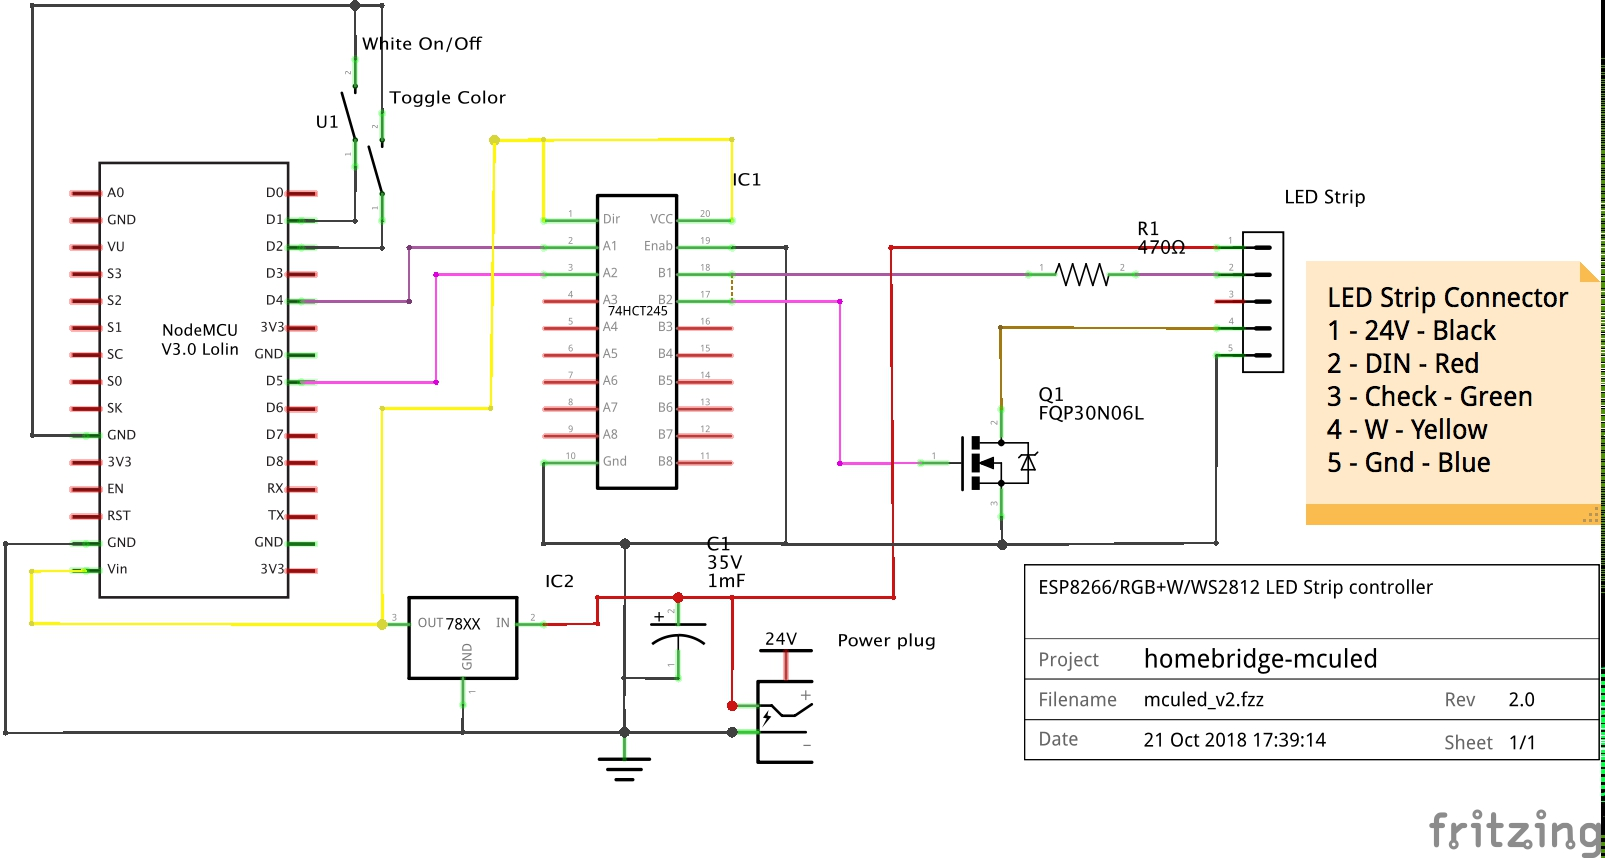
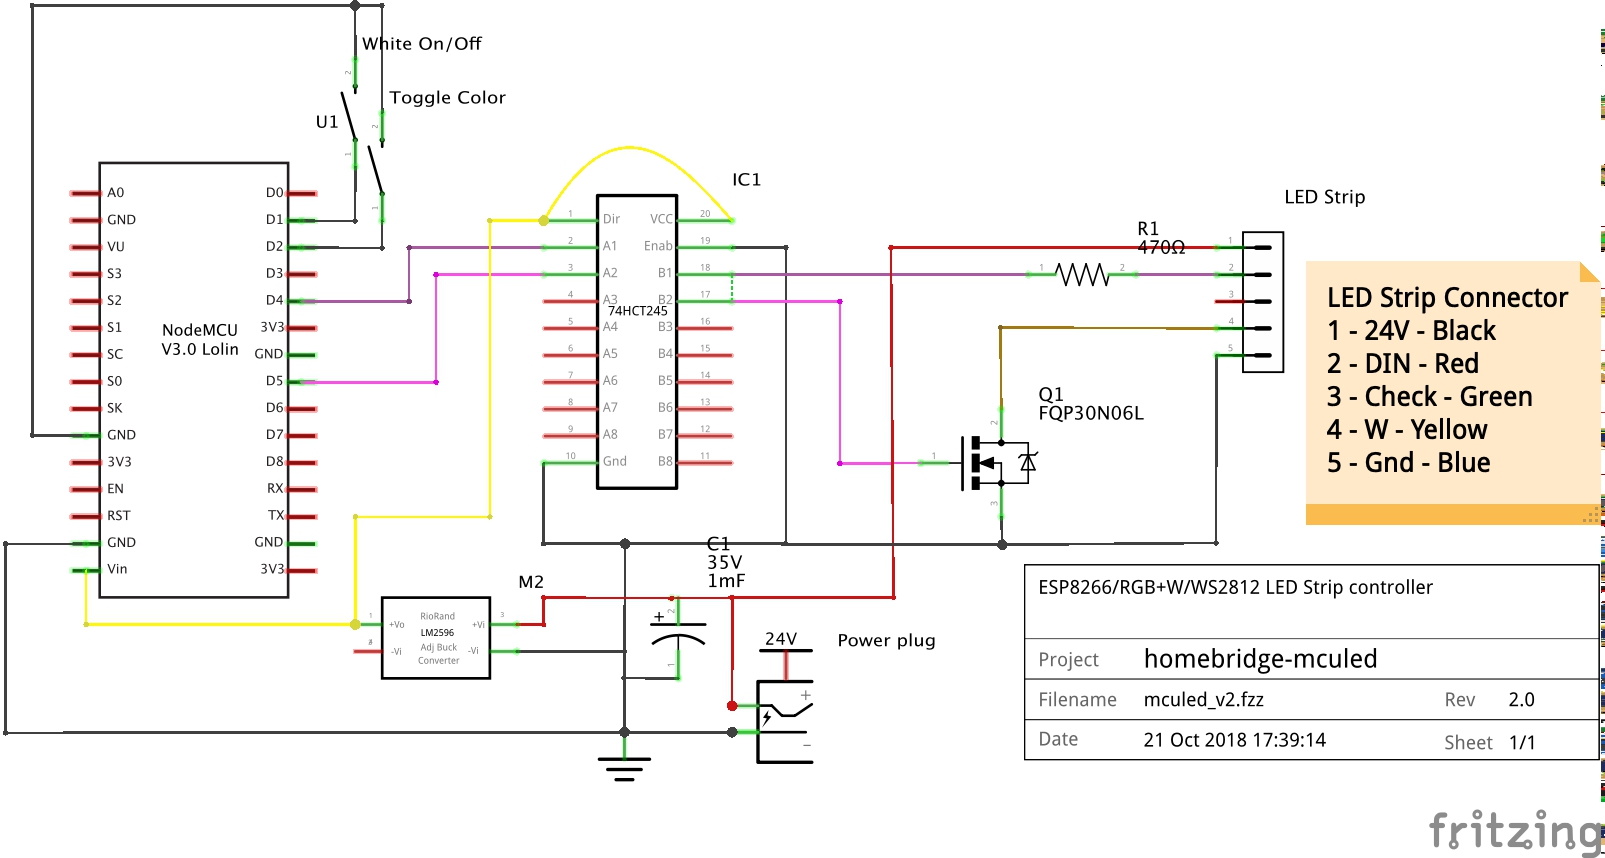
Updated README

diff --git a/docs/index.html b/docs/index.html
@@ -2,7 +2,7 @@
 <html>
 <head>
   <meta charset='utf-8' />
-  <title>homebridge-mculed 0.0.7 | Documentation</title>
+  <title>homebridge-mculed 0.0.8 | Documentation</title>
   <meta name='viewport' content='width=device-width,initial-scale=1'>
   <link href='assets/bass.css' type='text/css' rel='stylesheet' />
   <link href='assets/style.css' type='text/css' rel='stylesheet' />
@@ -15,7 +15,7 @@
       <div id='split-left' class='overflow-auto fs0 height-viewport-100'>
         <div class='py1 px2'>
           <h3 class='mb0 no-anchor'>homebridge-mculed</h3>
-          <div class='mb1'><code>0.0.7</code></div>
+          <div class='mb1'><code>0.0.8</code></div>
           <input
             placeholder='Filter'
             id='filter-input'

diff --git a/lua/README.md b/lua/README.md
@@ -29,8 +29,8 @@ LUA programs for a nodeMCU device to control a RGB+W LED Strip
     -   74HCT245
     -   1000uf 25V capacitor
     -   470 Ohm Resistor
-    -   ~~DC to DC Power Converter~~
-    -   78M05 Voltage Regulator
+    -   DC to DC Power Converter
+    -   ~~78M05 Voltage Regulator~~ - I tried using the voltage regulator, but did not take into account the heat generated by lowering the voltage
     -   2 x Push Button switch
     -   FQP30N06L N-Channel MOSFET
     -   Case - Hammond 1593NBK
